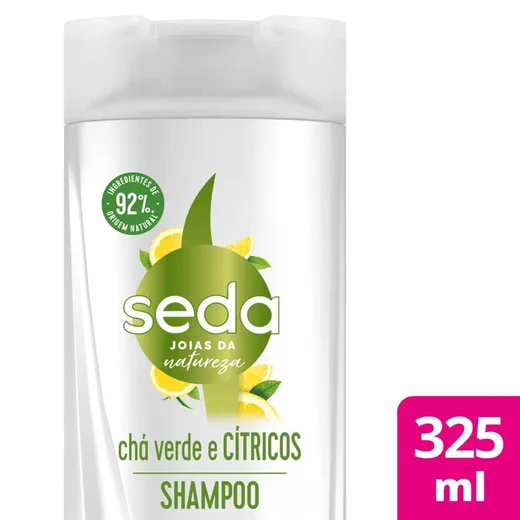
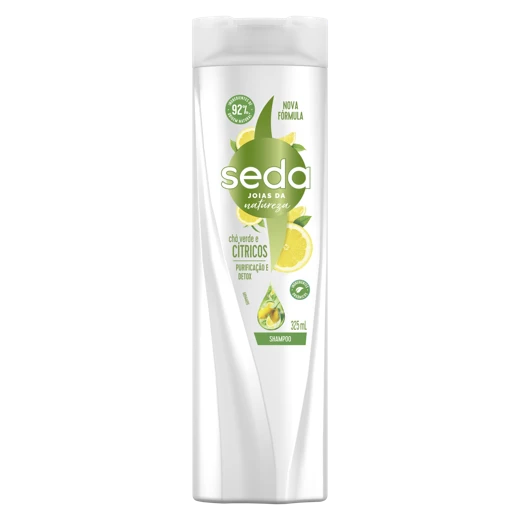
Usa fotos oficiais das embalagens completas de três produtos Seda

diff --git a/index.html b/index.html
@@ -909,7 +909,7 @@ const products=[
     "category": "Higiene",
     "brand": "Seda",
     "name": "Shampoo Seda Pureza Refrescante 325 ml",
-    "img": "./assets/produtos/026852.webp",
+    "img": "./assets/produtos/026852.webp?v=embalagem-completa",
     "tag": "Cuidados capilares"
   },
   {
@@ -981,7 +981,7 @@ const products=[
     "category": "Higiene",
     "brand": "Seda",
     "name": "Condicionador Seda Luminous UV 300 ml",
-    "img": "./assets/produtos/087486.webp",
+    "img": "./assets/produtos/087486.webp?v=embalagem-completa",
     "tag": "Cuidados capilares"
   },
   {
@@ -990,7 +990,7 @@ const products=[
     "category": "Higiene",
     "brand": "Seda",
     "name": "Creme para pentear Seda Luminous UV 300 ml",
-    "img": "./assets/produtos/087487.webp",
+    "img": "./assets/produtos/087487.webp?v=embalagem-completa",
     "tag": "Cuidados capilares"
   },
   {
